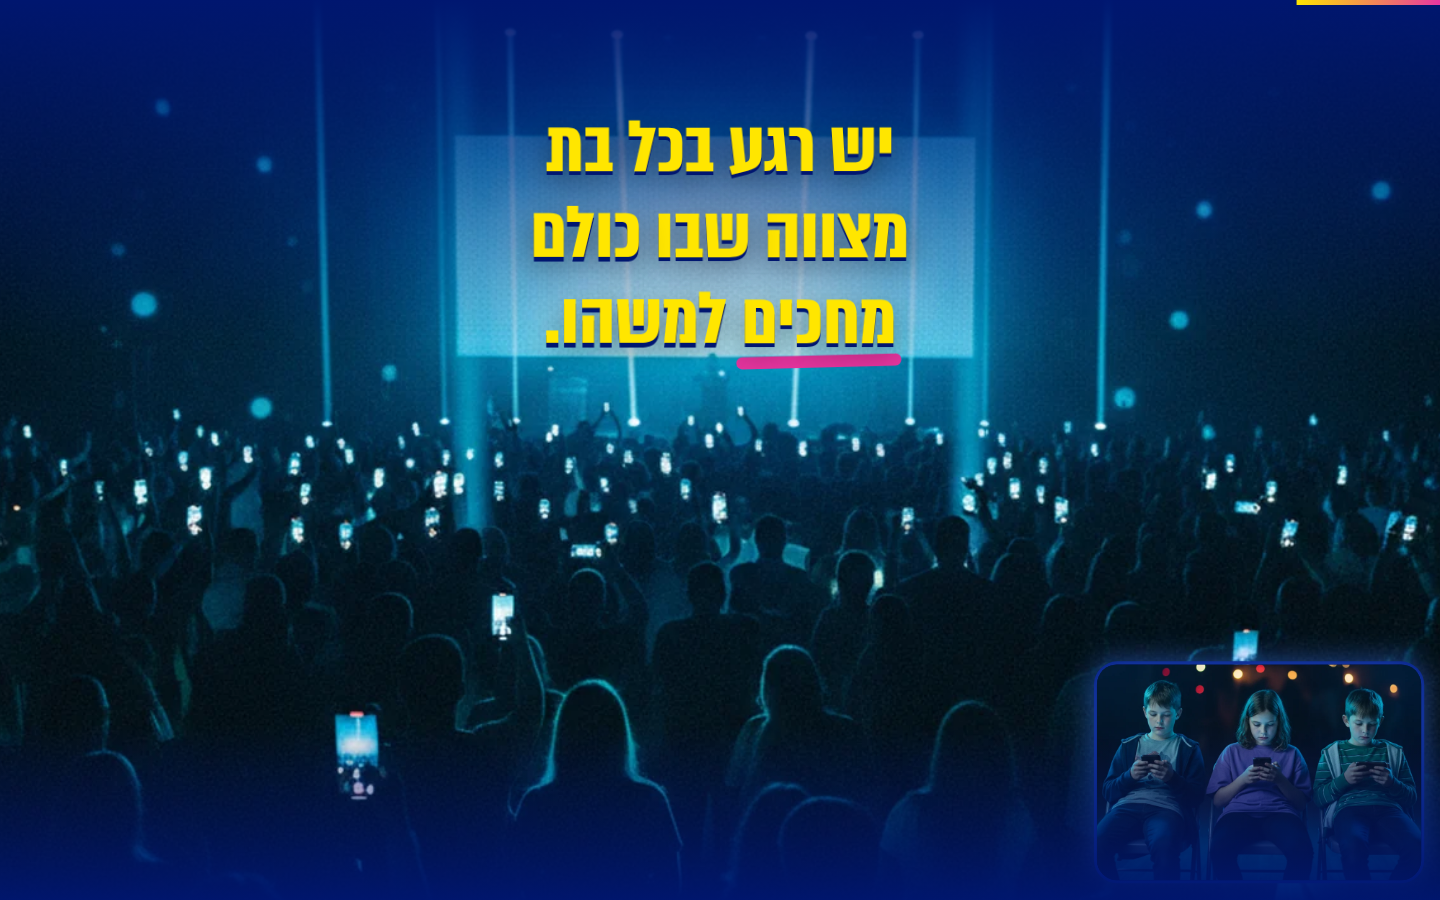
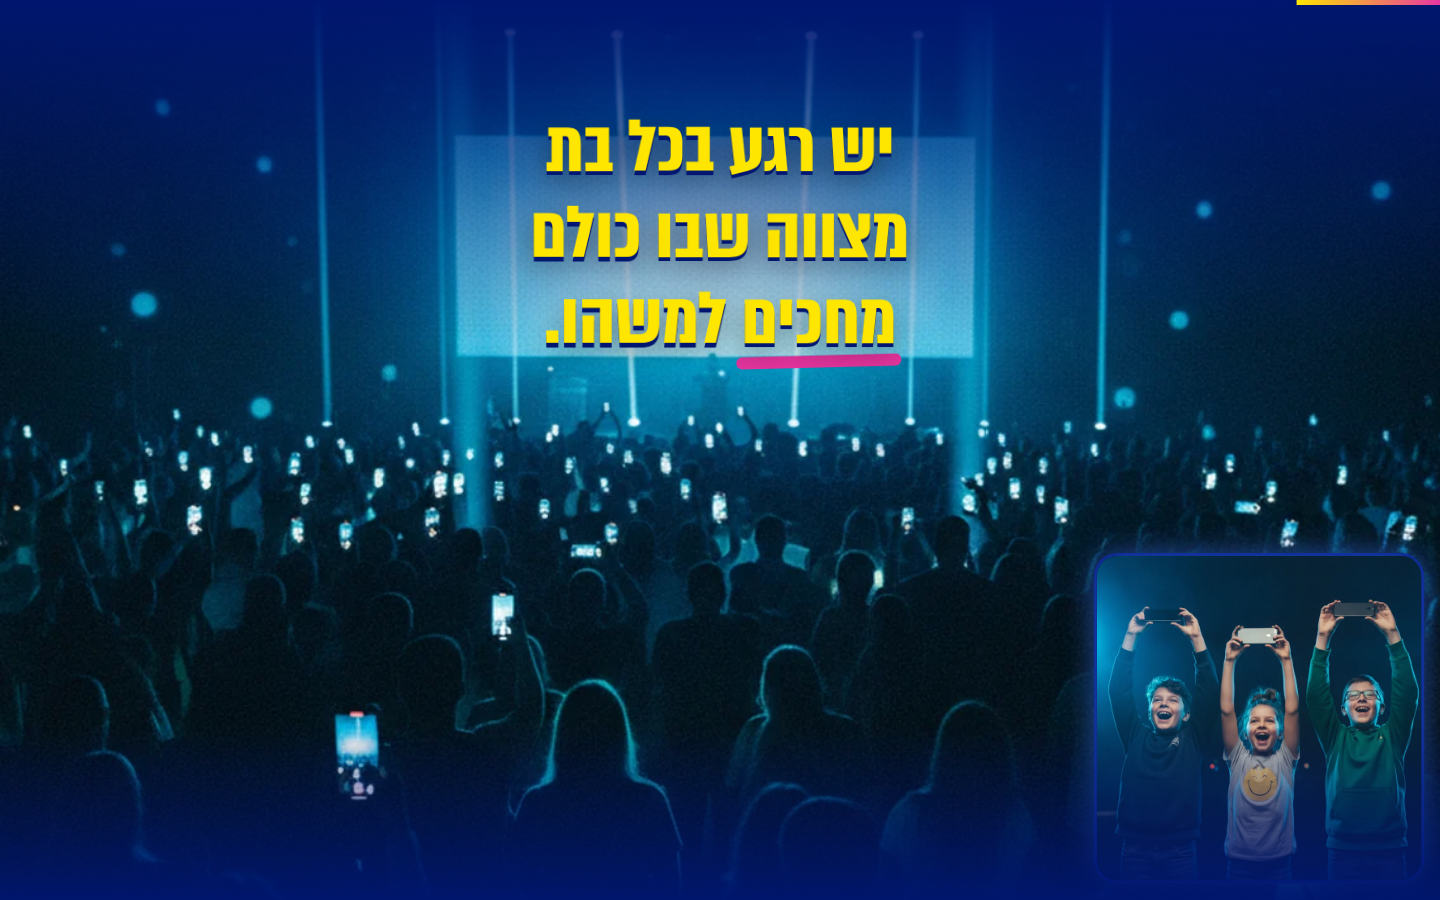
fix: standing happy kids with phones raised; more authentic, gender-balanced guests
Replaces bored-kids with kids-playing, regenerates the six guest portraits in a candid style (3 women, 3 men, mixed ages and tones), updates alts, prompts doc, screenshots.

Claude-Session: https://claude.ai/code/session_01H7Q5SWePBzrSCR9adzwQbV

Changed region(s): [[0.75, 0.5911, 1.0, 0.9644], [0.4375, 0.1244, 0.4688, 0.1556]]

diff --git a/docs/people-image-prompts.md b/docs/people-image-prompts.md
@@ -18,6 +18,12 @@ cyan rim, navy bokeh background), and generate the set in one sitting.
 
 > Photorealistic candid photograph of fictional people, not any real person, no celebrities. Shot on a full-frame camera, 50mm lens at f/2, shallow depth of field, natural skin texture, soft film grain. Lighting: electric blue stage light with a soft cyan rim light, deep navy blue (#00176a to #030e3f) blurred party background with faint out-of-focus lights. Casual party clothing, wholesome, family friendly. No text, no logos, no watermark, no readable writing anywhere.
 
+## Authentic style block (round 2: the six guests and the kids)
+
+Round 1 looked too polished and stock-like, with too many women. Round 2 is a candid, documentary look, 3 women and 3 men, mixed ages and skin tones:
+
+> Candid documentary-style photograph of a real-looking ordinary person at a family party in Israel (fictional, not any real person, not a celebrity). Authentic and unretouched: natural skin with pores, fine lines, small asymmetries, flyaway hair, everyday ordinary (not model-like) face, real body type, slightly imperfect framing, a genuine unposed expression caught mid-moment. Everyday casual clothes that are a bit lived-in, not styled. Shot on a phone-quality full-frame camera, 35mm lens, mild grain, no beauty filter, no airbrushing, no glossy studio or stock-photo look. Mixed lighting from a party hall with a strong blue stage light on one side and a soft cyan rim, deep navy blue (#00176a to #030e3f) background with a few faint out-of-focus lights. Wholesome and family friendly. No text, no logos, no watermark, nothing readable.
+
 ## The set
 
 | File (`public/people/`) | Final size | Used in |
@@ -29,48 +35,54 @@ cyan rim, navy bokeh background), and generate the set in one sitting.
 | `guest-dad.webp` | 600x800 | Scene 2 |
 | `guest-teacher.webp` | 600x800 | Scene 2 |
 | `hall-crowd.webp` | 1280x720 | Scene 1 background |
-| `bored-kids.webp` | 900x600 | Scene 1 corner |
+| `kids-playing.webp` | 800x800 (square) | Scene 1 corner |
 | `celebrant-stage.webp` | 600x800 | not placed yet (KidOnStage variant="celebrant") |
 | `family-cheering.webp` | 800x800 (square) | not placed yet (spare) |
 | `grandma-winning.webp` | 640x640 (square) | Scene 6 (matches the leaderboard winner) |
 
 ## Subjects (one per image)
 
+### kids-playing.webp
+
+Aspect ratio: 1:1. (Round 2, authentic style block.) Replaced `bored-kids` (kids sitting with phones looked depressing).
+
+> Three kids standing side by side, two boys and one girl (about 12 to 13): laughing and cheering, each with one arm stretched up holding a smartphone above their head, as if scanning a code to join a game. Casual tees and hoodies, upper bodies and raised arms visible.
+
 ### guest-grandma.webp
 
-Aspect ratio: 3:4 portrait.
+Aspect ratio: 3:4 portrait. (Round 2: use the **authentic style block** below, not the shared one.)
 
-> Waist-up portrait of a warm laughing grandmother around 72, silver hair in a loose bun, round glasses, cozy cream knit cardigan over a floral blouse, holding a smartphone in one hand, looking at the camera with a delighted mischievous smile.
+> Waist-up. A warm grandmother around 74, Mizrahi-Jewish look, short gray curly hair, deep laugh lines, simple glasses on a cord, patterned housedress under a knit cardigan, holding a phone close and squinting at it with a delighted grin.
 
 ### guest-aunt.webp
 
-Aspect ratio: 3:4 portrait.
+Aspect ratio: 3:4 portrait. (Round 2: use the **authentic style block** below, not the shared one.)
 
-> Waist-up portrait of an aunt around 45, shoulder-length wavy dark brown hair, teal blouse, big laugh, one hand raised mid-gesture as if telling a story, other hand holding a phone.
+> Waist-up. An aunt around 46, olive skin, dark hair pulled back loosely with a clip, real tired-but-happy face, plain green t-shirt, laughing mid-sentence while gesturing with one hand, phone in the other.
 
 ### guest-bestfriend.webp
 
-Aspect ratio: 3:4 portrait.
+Aspect ratio: 3:4 portrait. (Round 2: use the **authentic style block** below, not the shared one.)
 
-> Waist-up portrait of a 13 year old girl, best friend of the celebrant, long light-brown hair, yellow hoodie, playful excited grin, holding a phone up near her face, wholesome child at a party.
+> Waist-up. A 13 year old girl, Ethiopian-Israeli, braids tied up, hoodie and braces visible in a big grin, holding her phone up high with both hands, bouncing with excitement.
 
 ### guest-cousin.webp
 
-Aspect ratio: 3:4 portrait.
+Aspect ratio: 3:4 portrait. (Round 2: use the **authentic style block** below, not the shared one.)
 
-> Waist-up portrait of a 15 year old boy, curly dark hair, light blue t-shirt, cheeky smirk, holding a phone in both hands, relaxed teenage cousin at a party.
+> Waist-up. A 16 year old boy, slightly awkward teenage look, a little acne, messy curly hair, oversized gray t-shirt, half-smirk, thumbs on a phone held in front of him.
 
 ### guest-dad.webp
 
-Aspect ratio: 3:4 portrait.
+Aspect ratio: 3:4 portrait. (Round 2: use the **authentic style block** below, not the shared one.)
 
-> Waist-up portrait of a dad around 48, short brown hair with light stubble, red casual button-up shirt with rolled sleeves, hands clasped, embarrassed but affectionate laugh as if remembering a funny story.
+> Waist-up. A dad around 50, balding with graying stubble, a bit of a belly under a wrinkled light button-up shirt, covering his mouth with one hand while laughing, embarrassed, remembering a story.
 
 ### guest-teacher.webp
 
-Aspect ratio: 3:4 portrait.
+Aspect ratio: 3:4 portrait. (Round 2: use the **authentic style block** below, not the shared one.)
 
-> Waist-up portrait of a teacher around 38, light brown hair in a bun, round glasses, soft lavender cardigan, kind amused smile, holding a phone.
+> Waist-up. A male teacher around 40, Ashkenazi look, beard, thin-framed glasses, rolled-up sleeves on a casual blue shirt, friendly amused smile, holding a phone at chest height.
 
 ### hall-crowd.webp
 
@@ -78,11 +90,11 @@ Aspect ratio: 16:9 wide.
 
 > Wide shot of a party hall from behind and above the crowd, about 40 mixed-age guests seen from behind and in silhouette, many holding up glowing phones lit cool blue, a big glowing blue screen at the far end, vertical blue light beams, faces not identifiable, no one looks at the camera.
 
-### bored-kids.webp
+### guest-grandma.webp
 
-Aspect ratio: 3:2 wide.
+Aspect ratio: 3:4 portrait. (Round 2: use the **authentic style block** below, not the shared one.)
 
-> Three bored 11 to 13 year old kids slumped on chairs at the edge of a party hall, each staring at a smartphone, the cool blue phone glow lighting their faces, dull expressions, casual t-shirts and hoodies, dark navy background.
+> Waist-up. A warm grandmother around 74, Mizrahi-Jewish look, short gray curly hair, deep laugh lines, simple glasses on a cord, patterned housedress under a knit cardigan, holding a phone close and squinting at it with a delighted grin.
 
 ### celebrant-stage.webp
 

diff --git a/ASSETS-TODO.md b/ASSETS-TODO.md
@@ -7,7 +7,7 @@ Each one has a clearly named component, so it can be swapped without touching th
 | # | Where | Component today | What's needed |
 |---|---|---|---|
 | 1 | Scene 1, the hall (DONE: `hall-crowd.webp`) | `src/components/art/HallArt.astro` | ~~A wide, stylized bat mitzvah hall illustration (round tables, DJ booth with colored beams, a big dark screen on the wall, string lights). Same flat style: thick `#330768` outlines, flat fills, soft gradients. Must work cropped to a 9:19 phone frame (keep the DJ centered). Ideally layered (background / tables / DJ / beams) for parallax.~~ Replaced by a photo slot. |
-| 2 | Scene 1, bored kids corner (DONE: `bored-kids.webp`) | `.kids-corner` in `HallArt.astro` | 3 kids slumped on chairs staring at phones, blue phone glow on faces. Transparent background, about 330x210. |
+| 2 | Scene 1, bored kids corner (DONE: `kids-playing.webp`) | `.kids-corner` in `HallArt.astro` | 3 kids standing, laughing, phones held up to join the game. |
 | 3 | Scene 2, guests (DONE: 6 `guest-*.webp`) | `src/components/art/Guest.astro` | A set of 6 characters (grandma, aunt, best friend, cousin, dad, teacher) in one consistent style, front-facing, transparent background. Could become short looping Lottie/video loops (talking, laughing). |
 | 4 | Scene 3, the demo video (DONE: `public/demo/tadam-demo.mp4` + poster, replaces the host carousel) | `src/components/scenes/Scene3Reveal.astro` | Ideally a purpose-made demo recording later: no `base44.app` URL in the phone status bar, no cartoon or family media. Keep 16:9 (1252x720) so the frame does not shift. |
 | 5 | Scene 5, crowd of phones | canvas in `scripts/scenes/scene5.ts` | Optional: a short dark video loop of a real hall from above with phones lighting up (no identifiable faces), to sit behind the canvas. |
